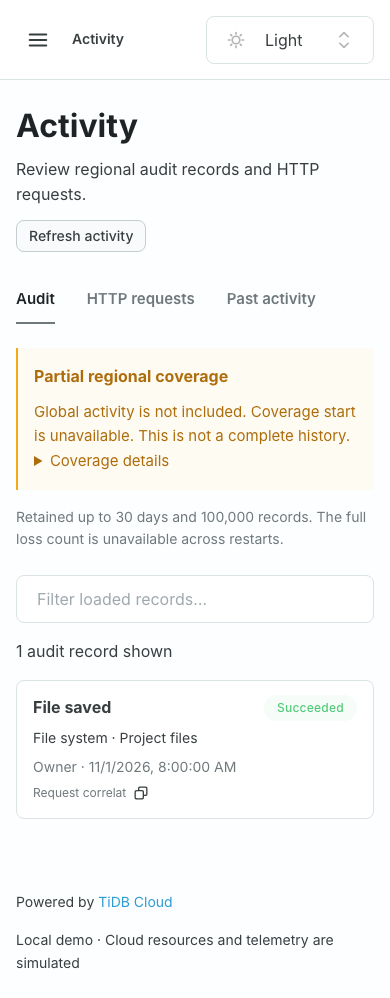
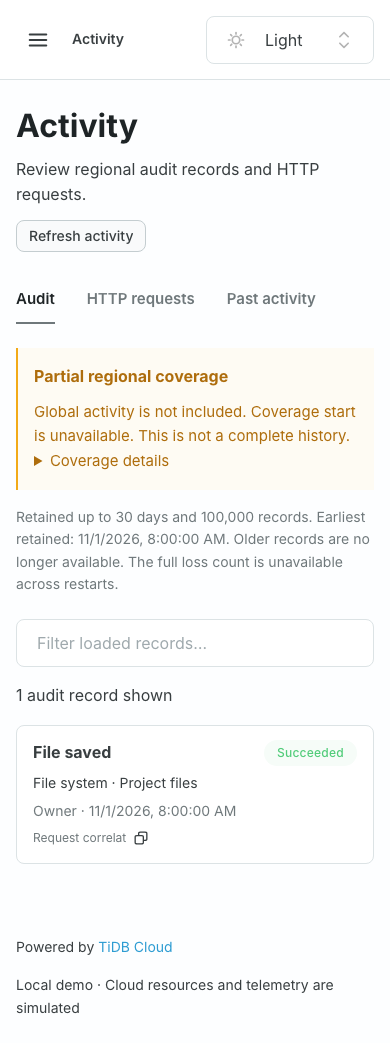
feat(activity): report bounded retention watermarks

diff --git a/src/features/activity/ActivityHistory.tsx b/src/features/activity/ActivityHistory.tsx
@@ -213,6 +213,8 @@ export function ActivityHistory({
           <Text size="sm" c="carbon.7" mb="md">
             Retained up to {page.retention.maxAgeDays} days and{' '}
             {page.retention.maxRecords.toLocaleString()} records.{' '}
+            {page.retention.earliestAt && `Earliest retained: ${time(page.retention.earliestAt)}. `}
+            {page.retention.truncated === true && 'Older records are no longer available. '}
             {page.health.status === 'degraded'
               ? 'Some records may be missing.'
               : page.health.status === 'unavailable'

diff --git a/backend/workspace/src/repository/observability/history.rs b/backend/workspace/src/repository/observability/history.rs
@@ -15,6 +15,18 @@ pub struct HistoryFilter<'a> {
     pub to: Option<DateTime<Utc>>,
 }
 
+struct RetentionSnapshot<'a> {
+    head_key: &'a str,
+    prefix: &'a str,
+    expiry_prefix: &'a str,
+    timestamp_field: &'a str,
+    head: &'a Value,
+    position: u64,
+    count: u64,
+    cutoff: DateTime<Utc>,
+    days: i64,
+}
+
 impl Repository {
     /// Authorization belongs to the caller: only a verified Workspace owner may read this.
     /// The returned records are not a claim of complete coverage or physical TTL deletion.
@@ -26,11 +38,19 @@ impl Repository {
         if !(1..=100).contains(&filter.limit) {
             return Err(ServiceError::new(400, "INVALID_HISTORY_LIMIT"));
         }
-        let (head_key, prefix, stream_name, timestamp_field, days) = match stream {
-            HistoryStream::Audit => (AUDIT_HEAD, AUDIT_RECORDS, "audit", "occurredAt", 30),
+        let (head_key, prefix, expiry_prefix, stream_name, timestamp_field, days) = match stream {
+            HistoryStream::Audit => (
+                AUDIT_HEAD,
+                AUDIT_RECORDS,
+                AUDIT_EXPIRY,
+                "audit",
+                "occurredAt",
+                30,
+            ),
             HistoryStream::Requests => (
                 requests::HEAD,
                 requests::RECORDS,
+                requests::EXPIRY,
                 "requests",
                 "startedAt",
                 7,
@@ -259,8 +279,139 @@ impl Repository {
                     .expect("cursor JSON"),
             )
         });
+        let (earliest, truncated) = self
+            .history_retention(RetentionSnapshot {
+                head_key,
+                prefix,
+                expiry_prefix,
+                timestamp_field,
+                head: &head,
+                position,
+                count,
+                cutoff,
+                days,
+            })
+            .await?;
         Ok(
-            json!({"data":data,"nextCursor":cursor,"coverageStartedAt":head["value"]["coverageStartedAt"]}),
+            json!({"data":data,"nextCursor":cursor,"coverageStartedAt":head["value"]["coverageStartedAt"],"earliestAt":earliest,"truncated":truncated}),
         )
+    }
+
+    // Expiry is indexed to the second. If more than one bounded page shares the oldest
+    // second, return an unknown watermark rather than inventing an exact timestamp.
+    async fn history_retention(
+        &self,
+        snapshot: RetentionSnapshot<'_>,
+    ) -> Result<(Option<String>, Option<bool>)> {
+        let RetentionSnapshot {
+            head_key,
+            prefix,
+            expiry_prefix,
+            timestamp_field,
+            head,
+            position,
+            count,
+            cutoff,
+            days,
+        } = snapshot;
+        if count == 0 {
+            return Ok((None, Some(position > 0)));
+        }
+        let oldest = self
+            .call(MetaRequest::List {
+                scope: self.scope.clone(),
+                guard: Some(self.guard.clone()),
+                prefix: expiry_prefix.into(),
+                after: None,
+                limit: 1,
+            })
+            .await?;
+        let oldest_deadline = oldest["records"][0]["value"]["deadline"].as_u64();
+        let deadline = u64::try_from((cutoff + chrono::Duration::days(days)).timestamp())
+            .map_err(|_| error("HISTORY_INDEX_CORRUPT"))?;
+        let candidates = self
+            .call(MetaRequest::List {
+                scope: self.scope.clone(),
+                guard: Some(self.guard.clone()),
+                prefix: expiry_prefix.into(),
+                after: Some(format!("{expiry_prefix}{deadline:020}/")),
+                limit: 100,
+            })
+            .await?;
+        let indexes = candidates["records"]
+            .as_array()
+            .ok_or_else(|| error("HISTORY_INDEX_CORRUPT"))?;
+        let keys: Vec<_> = indexes
+            .iter()
+            .map(|index| {
+                index["value"]["sequence"]
+                    .as_u64()
+                    .filter(|sequence| *sequence > 0 && *sequence <= position)
+                    .map(|sequence| format!("{prefix}{:020}", u64::MAX - sequence))
+                    .ok_or_else(|| error("HISTORY_INDEX_CORRUPT"))
+            })
+            .collect::<Result<_>>()?;
+        let values = if keys.is_empty() {
+            json!({})
+        } else {
+            self.call(MetaRequest::Get {
+                scope: self.scope.clone(),
+                guard: Some(self.guard.clone()),
+                keys: keys.clone(),
+            })
+            .await?["records"]
+                .clone()
+        };
+        // A concurrent append or eviction invalidates the two index snapshots.
+        if version(&self.get(head_key).await?) != version(head) {
+            return Ok((None, None));
+        }
+        let Some(oldest_deadline) = oldest_deadline else {
+            return Err(error("HISTORY_INDEX_CORRUPT"));
+        };
+        let mut earliest: Option<DateTime<Utc>> = None;
+        let mut earliest_deadline = None;
+        let mut expired_at_boundary = false;
+        for (index, key) in indexes.iter().zip(keys.iter()) {
+            let index_deadline = index["value"]["deadline"]
+                .as_u64()
+                .ok_or_else(|| error("HISTORY_INDEX_CORRUPT"))?;
+            if earliest_deadline.is_some_and(|first| index_deadline > first) {
+                break;
+            }
+            let timestamp = values[key]["value"][timestamp_field]
+                .as_str()
+                .and_then(|value| DateTime::parse_from_rfc3339(value).ok())
+                .map(|value| value.with_timezone(&Utc))
+                .ok_or_else(|| error("HISTORY_INDEX_CORRUPT"))?;
+            if timestamp >= cutoff {
+                earliest_deadline = Some(index_deadline);
+                earliest = Some(earliest.map_or(timestamp, |first| first.min(timestamp)));
+            } else {
+                expired_at_boundary = true;
+            }
+        }
+        let last_deadline = indexes
+            .last()
+            .and_then(|index| index["value"]["deadline"].as_u64());
+        if !candidates["nextCursor"].is_null()
+            && (earliest_deadline.is_none() || earliest_deadline == last_deadline)
+        {
+            earliest = None;
+        }
+        let truncated = if position > count || oldest_deadline < deadline || expired_at_boundary {
+            Some(true)
+        } else if oldest_deadline == deadline
+            && !candidates["nextCursor"].is_null()
+            && last_deadline == Some(deadline)
+        {
+            None
+        } else {
+            Some(false)
+        };
+        Ok((
+            earliest.map(|value| value.to_rfc3339_opts(chrono::SecondsFormat::Millis, true)),
+            truncated,
+        ))
     }
 }

diff --git a/backend/workspace/src/observability_tests.rs b/backend/workspace/src/observability_tests.rs
@@ -529,6 +529,8 @@ async fn history_remains_workspace_scoped_and_survives_repository_reopen() {
         .await
         .unwrap();
     let request_start = page["coverageStartedAt"].as_str().unwrap().to_owned();
+    assert!(page["earliestAt"].as_str().is_some());
+    assert_eq!(page["truncated"], false);
     let audit_start = first
         .history_page(HistoryStream::Audit, filter(None))
         .await
@@ -595,6 +597,8 @@ async fn history_remains_workspace_scoped_and_survives_repository_reopen() {
         .await
         .unwrap();
     assert_eq!(audit["coverageStartedAt"], audit_start);
+    assert!(audit["earliestAt"].as_str().is_some());
+    assert_eq!(audit["truncated"], false);
     assert_eq!(audit["data"][0]["outcome"], "attempted");
     assert_eq!(audit["data"][0]["resolution"], "unknown");
     assert_eq!(
@@ -637,6 +641,64 @@ async fn history_remains_workspace_scoped_and_survives_repository_reopen() {
     );
     reopened.close().await.unwrap();
     second.close().await.unwrap();
+}
+
+#[tokio::test]
+async fn request_history_reports_retention_and_bounds_ambiguous_watermarks() {
+    let metadata = Arc::new(ScopedMetadata::default());
+    let workspace = Repository::open(metadata, "region:test", "workspace-a", true, None)
+        .await
+        .unwrap();
+    let now = chrono::Utc::now();
+    let entry = |started_at| RequestEntry {
+        request_id: Uuid::new_v4(),
+        actor_kind: ActorKind::Owner,
+        actor_id: "owner-a",
+        operation: HttpOperation::Files,
+        method: HttpMethod::Get,
+        completion: HttpCompletion::Responded(200),
+        started_at,
+        duration_ms: 1,
+    };
+    workspace
+        .append_request_batch(&[entry(now - chrono::Duration::days(8)), entry(now)])
+        .await
+        .unwrap();
+    let page = workspace
+        .history_page(HistoryStream::Requests, filter(None))
+        .await
+        .unwrap();
+    assert_eq!(page["truncated"], true);
+    assert_eq!(
+        page["earliestAt"],
+        now.to_rfc3339_opts(chrono::SecondsFormat::Millis, true)
+    );
+    assert_eq!(workspace.purge_expired_request_batch(now).await.unwrap(), 1);
+    let after_cleanup = workspace
+        .history_page(HistoryStream::Requests, filter(None))
+        .await
+        .unwrap();
+    assert_eq!(
+        after_cleanup["coverageStartedAt"],
+        page["coverageStartedAt"]
+    );
+    assert_eq!(after_cleanup["truncated"], true);
+    let entries: Vec<_> = (0..100).map(|_| entry(now)).collect();
+    workspace
+        .append_request_batch(&entries[..50])
+        .await
+        .unwrap();
+    workspace
+        .append_request_batch(&entries[50..])
+        .await
+        .unwrap();
+    let crowded = workspace
+        .history_page(HistoryStream::Requests, filter(None))
+        .await
+        .unwrap();
+    assert!(crowded["earliestAt"].is_null());
+    assert_eq!(crowded["truncated"], true);
+    workspace.close().await.unwrap();
 }
 
 #[tokio::test]

diff --git a/backend/api/src/lib.rs b/backend/api/src/lib.rs
@@ -1220,7 +1220,7 @@ async fn dispatch(
             "data": page["data"],
             "nextCursor": page["nextCursor"],
             "coverage": coverage,
-            "retention": {"maxAgeDays":days, "maxRecords":100000, "earliestAt":null, "truncated":null},
+            "retention": {"maxAgeDays":days, "maxRecords":100000, "earliestAt":page["earliestAt"], "truncated":page["truncated"]},
             "health": {"status":health_status, "droppedCount":null, "lossDetectedAt":loss_detected_at}
         })).into_response();
         response
